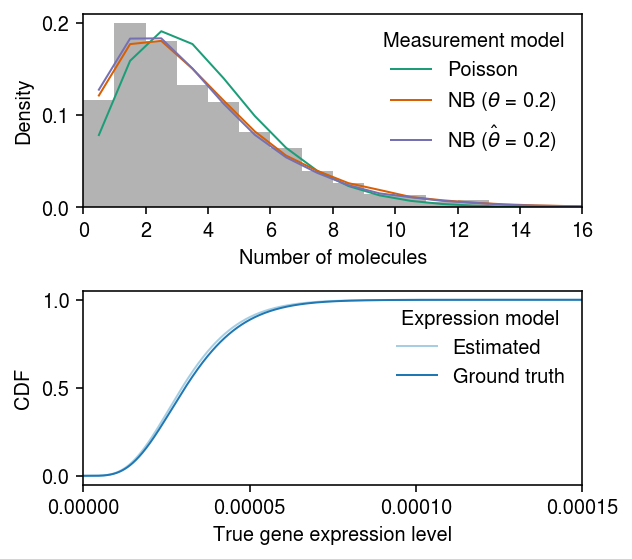
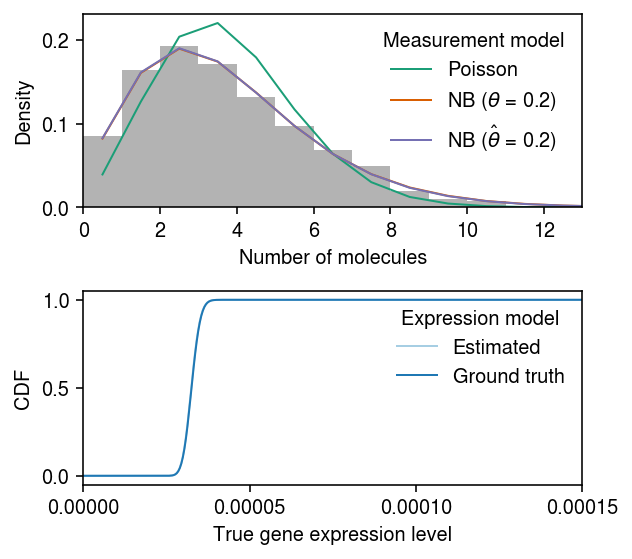
Debug EBNBM

diff --git a/docs/ebnbm.html b/docs/ebnbm.html
@@ -1,7 +1,7 @@
 <!DOCTYPE html>
 <html lang="en">
 <head>
-<!-- 2020-09-01 Tue 15:44 -->
+<!-- 2020-09-01 Tue 16:49 -->
 <meta charset="utf-8">
 <meta name="viewport" content="width=device-width, initial-scale=1">
 <title>Negative binomial measurement model</title>
@@ -471,7 +471,7 @@ ground truth values.
 </p>
 
 <div class="org-src-container">
-<pre class="src src-ipython"><span class="org-variable-name">x</span>, <span class="org-variable-name">s</span>, <span class="org-variable-name">lam</span>, <span class="org-variable-name">u</span>, <span class="org-variable-name">log_mean</span>, <span class="org-variable-name">log_inv_disp</span>, <span class="org-variable-name">theta</span> = simulate_nb_gamma(n=1000, p=1, theta=0.2, seed=1)
+<pre class="src src-ipython"><span class="org-variable-name">x</span>, <span class="org-variable-name">s</span>, <span class="org-variable-name">lam</span>, <span class="org-variable-name">u</span>, <span class="org-variable-name">log_mean</span>, <span class="org-variable-name">log_inv_disp</span>, <span class="org-variable-name">theta</span> = simulate_nb_gamma(n=1000, p=5, theta=0.2, seed=1)
 <span class="org-variable-name">log_mean_hat</span>, <span class="org-variable-name">log_inv_disp_hat</span>, <span class="org-variable-name">log_theta_hat</span>, <span class="org-variable-name">alpha</span>, <span class="org-variable-name">beta</span>, <span class="org-variable-name">gamma</span>, <span class="org-variable-name">delta</span>, <span class="org-variable-name">elbo</span> = scmodes.ebnbm.ebnbm_gamma(
   x,
   s,
@@ -483,15 +483,15 @@ ground truth values.
 
 <span class="org-comment-delimiter"># </span><span class="org-comment">Poisson measurement =&gt; NB observation</span>
 <span class="org-variable-name">pmf</span> = <span class="org-builtin">dict</span>()
-<span class="org-variable-name">pmf</span>[<span class="org-string">'Poisson'</span>] = st.nbinom(n=np.exp(log_inv_disp), p=1 / (1 + (s * np.exp(log_mean - log_inv_disp)))).pmf(y).mean(axis=0)
+<span class="org-variable-name">pmf</span>[<span class="org-string">'Poisson'</span>] = st.nbinom(n=np.exp(log_inv_disp[:,0]), p=1 / (1 + (s * np.exp(log_mean[:,0] - log_inv_disp[:,0])))).pmf(y).mean(axis=0)
 
 <span class="org-comment-delimiter"># </span><span class="org-comment">NB measurement =&gt; Monte Carlo integral</span>
 <span class="org-variable-name">n_samples</span> = 1000
-<span class="org-variable-name">G</span> = st.gamma(a=np.exp(log_inv_disp), scale=np.exp(log_mean - log_inv_disp))
+<span class="org-variable-name">G</span> = st.gamma(a=np.exp(log_inv_disp[:,0]), scale=np.exp(log_mean[:,0] - log_inv_disp[:,0]))
 <span class="org-variable-name">temp</span> = G.rvs(size=(n_samples, y.shape[0], 1))
 <span class="org-variable-name">pmf</span>[rf<span class="org-string">'NB ($\theta$ = {theta:.2g})'</span>] = st.nbinom(n=1 / theta, p=1 / (1 + s[0] * temp * theta)).pmf(y.reshape(-1, 1)).mean(axis=0)
 
-<span class="org-variable-name">Ghat</span> = st.gamma(a=np.exp(log_inv_disp_hat), scale=np.exp(log_mean_hat - log_inv_disp_hat))
+<span class="org-variable-name">Ghat</span> = st.gamma(a=np.exp(log_inv_disp_hat[:,0]), scale=np.exp(log_mean_hat[:,0] - log_inv_disp_hat[:,0]))
 <span class="org-variable-name">temp</span> = Ghat.rvs(size=(n_samples, y.shape[0], 1))
 <span class="org-variable-name">pmf</span>[rf<span class="org-string">'NB ($\hat\theta$ = {np.exp(log_theta_hat):.2g})'</span>] = st.nbinom(n=np.exp(-log_theta_hat), p=1 / (1 + s[0] * temp * np.exp(log_theta_hat))).pmf(y.reshape(-1, 1)).mean(axis=0)
 
@@ -569,13 +569,198 @@ fig.tight_layout()
 <p><img src="figure/ebnbm.org/sim-ex2.png" alt="sim-ex2.png">
 </p>
 </div>
+
+<p>
+Now, fit the model initialized at the ground truth.
+</p>
+
+<div class="org-src-container">
+<pre class="src src-ipython"><span class="org-variable-name">log_mean_hat</span>, <span class="org-variable-name">log_inv_disp_hat</span>, <span class="org-variable-name">log_theta_hat</span>, <span class="org-variable-name">alpha</span>, <span class="org-variable-name">beta</span>, <span class="org-variable-name">gamma</span>, <span class="org-variable-name">delta</span>, <span class="org-variable-name">elbo</span> = scmodes.ebnbm.ebnbm_gamma(
+  x,
+  s,
+  init=np.hstack([np.exp(log_inv_disp).ravel(), np.exp(-log_mean + log_inv_disp).ravel(), theta]),
+  tol=1e-3, 
+  fix_theta=<span class="org-constant">False</span>)
+
+<span class="org-variable-name">y</span> = np.arange(x[:,0].<span class="org-builtin">max</span>() + 1)
+
+<span class="org-comment-delimiter"># </span><span class="org-comment">Poisson measurement =&gt; NB observation</span>
+<span class="org-variable-name">pmf</span> = <span class="org-builtin">dict</span>()
+<span class="org-variable-name">pmf</span>[<span class="org-string">'Poisson'</span>] = st.nbinom(n=np.exp(log_inv_disp[:,0]), p=1 / (1 + (s * np.exp(log_mean[:,0] - log_inv_disp[:,0])))).pmf(y).mean(axis=0)
+
+<span class="org-comment-delimiter"># </span><span class="org-comment">NB measurement =&gt; Monte Carlo integral</span>
+<span class="org-variable-name">n_samples</span> = 1000
+<span class="org-variable-name">G</span> = st.gamma(a=np.exp(log_inv_disp[:,0]), scale=np.exp(log_mean[:,0] - log_inv_disp[:,0]))
+<span class="org-variable-name">temp</span> = G.rvs(size=(n_samples, y.shape[0], 1))
+<span class="org-variable-name">pmf</span>[rf<span class="org-string">'NB ($\theta$ = {theta:.2g})'</span>] = st.nbinom(n=1 / theta, p=1 / (1 + s[0] * temp * theta)).pmf(y.reshape(-1, 1)).mean(axis=0)
+
+<span class="org-variable-name">Ghat</span> = st.gamma(a=np.exp(log_inv_disp_hat[:,0]), scale=np.exp(log_mean_hat[:,0] - log_inv_disp_hat[:,0]))
+<span class="org-variable-name">temp</span> = Ghat.rvs(size=(n_samples, y.shape[0], 1))
+<span class="org-variable-name">pmf</span>[rf<span class="org-string">'NB ($\hat\theta$ = {np.exp(log_theta_hat):.2g})'</span>] = st.nbinom(n=np.exp(-log_theta_hat), p=1 / (1 + s[0] * temp * np.exp(log_theta_hat))).pmf(y.reshape(-1, 1)).mean(axis=0)
+
+<span class="org-variable-name">cdf</span> = <span class="org-builtin">dict</span>()
+<span class="org-variable-name">grid</span> = np.linspace(0, (x / s).<span class="org-builtin">max</span>(), 1000)
+<span class="org-variable-name">cdf</span>[<span class="org-string">'Estimated'</span>] = Ghat.cdf(grid).ravel()
+<span class="org-variable-name">cdf</span>[<span class="org-string">'Ground truth'</span>] = G.cdf(grid).ravel()
+</pre>
+</div>
+
+<p>
+Plot the fitted models against the observed data.
+</p>
+
+<div class="org-src-container">
+<pre class="src src-ipython"><span class="org-variable-name">cm</span> = plt.get_cmap(<span class="org-string">'Dark2'</span>)
+plt.clf()
+<span class="org-variable-name">fig</span>, <span class="org-variable-name">ax</span> = plt.subplots(2, 1)
+fig.set_size_inches(4.5, 4)
+
+ax[0].hist(x[:,0], bins=y, color=<span class="org-string">'0.7'</span>, density=<span class="org-constant">True</span>)
+<span class="org-keyword">for</span> i, k <span class="org-keyword">in</span> <span class="org-builtin">enumerate</span>(pmf):
+  ax[0].plot(y + .5, pmf[k], c=cm(i), lw=1, label=k)
+ax[0].legend(title=<span class="org-string">'Measurement model'</span>, frameon=<span class="org-constant">False</span>)
+ax[0].set_xlim(0, x[:,0].<span class="org-builtin">max</span>())
+ax[0].set_xlabel(<span class="org-string">'Number of molecules'</span>)
+ax[0].set_ylabel(<span class="org-string">'Density'</span>)
+
+<span class="org-variable-name">cm</span> = plt.get_cmap(<span class="org-string">'Paired'</span>)
+<span class="org-keyword">for</span> i, k <span class="org-keyword">in</span> <span class="org-builtin">enumerate</span>(cdf):
+  ax[1].plot(grid, cdf[k], c=cm(i), lw=1, label=k)
+ax[1].legend(title=<span class="org-string">'Expression model'</span>, frameon=<span class="org-constant">False</span>)
+ax[1].set_xlim(0, 1.5e-4)
+ax[1].set_xticks([0, 5e-5, 1e-4, 1.5e-4])
+ax[1].set_xlabel(<span class="org-string">'True gene expression level'</span>)
+ax[1].set_ylabel(<span class="org-string">'CDF'</span>)
+
+fig.tight_layout()
+</pre>
+</div>
+
+
+<div class="figure">
+<p><img src="figure/ebnbm.org/sim-ex3.png" alt="sim-ex3.png">
+</p>
+</div>
+
+<div class="org-src-container">
+<pre class="src src-ipython"><span class="org-variable-name">y</span> = np.arange(x[:,1].<span class="org-builtin">max</span>() + 1)
+
+<span class="org-comment-delimiter"># </span><span class="org-comment">Poisson measurement =&gt; NB observation</span>
+<span class="org-variable-name">pmf</span> = <span class="org-builtin">dict</span>()
+<span class="org-variable-name">pmf</span>[<span class="org-string">'Poisson'</span>] = st.nbinom(n=np.exp(log_inv_disp[:,1]), p=1 / (1 + (s * np.exp(log_mean[:,1] - log_inv_disp[:,1])))).pmf(y).mean(axis=0)
+
+<span class="org-comment-delimiter"># </span><span class="org-comment">NB measurement =&gt; Monte Carlo integral</span>
+<span class="org-variable-name">n_samples</span> = 1000
+<span class="org-variable-name">G</span> = st.gamma(a=np.exp(log_inv_disp[:,1]), scale=np.exp(log_mean[:,1] - log_inv_disp[:,1]))
+<span class="org-variable-name">temp</span> = G.rvs(size=(n_samples, y.shape[0], 1))
+<span class="org-variable-name">pmf</span>[rf<span class="org-string">'NB ($\theta$ = {theta:.2g})'</span>] = st.nbinom(n=1 / theta, p=1 / (1 + s[0] * temp * theta)).pmf(y.reshape(-1, 1)).mean(axis=0)
+
+<span class="org-variable-name">Ghat</span> = st.gamma(a=np.exp(log_inv_disp_hat[:,1]), scale=np.exp(log_mean_hat[:,1] - log_inv_disp_hat[:,1]))
+<span class="org-variable-name">temp</span> = Ghat.rvs(size=(n_samples, y.shape[0], 1))
+<span class="org-variable-name">pmf</span>[rf<span class="org-string">'NB ($\hat\theta$ = {np.exp(log_theta_hat):.2g})'</span>] = st.nbinom(n=np.exp(-log_theta_hat), p=1 / (1 + s[0] * temp * np.exp(log_theta_hat))).pmf(y.reshape(-1, 1)).mean(axis=0)
+
+<span class="org-variable-name">cdf</span> = <span class="org-builtin">dict</span>()
+<span class="org-variable-name">grid</span> = np.linspace(0, (x / s).<span class="org-builtin">max</span>(), 1000)
+<span class="org-variable-name">cdf</span>[<span class="org-string">'Estimated'</span>] = Ghat.cdf(grid).ravel()
+<span class="org-variable-name">cdf</span>[<span class="org-string">'Ground truth'</span>] = G.cdf(grid).ravel()
+
+<span class="org-variable-name">cm</span> = plt.get_cmap(<span class="org-string">'Dark2'</span>)
+plt.clf()
+<span class="org-variable-name">fig</span>, <span class="org-variable-name">ax</span> = plt.subplots(2, 1)
+fig.set_size_inches(4.5, 4)
+
+ax[0].hist(x[:,1], bins=y, color=<span class="org-string">'0.7'</span>, density=<span class="org-constant">True</span>)
+<span class="org-keyword">for</span> i, k <span class="org-keyword">in</span> <span class="org-builtin">enumerate</span>(pmf):
+  ax[0].plot(y + .5, pmf[k], c=cm(i), lw=1, label=k)
+ax[0].legend(title=<span class="org-string">'Measurement model'</span>, frameon=<span class="org-constant">False</span>)
+ax[0].set_xlim(0, y.<span class="org-builtin">max</span>())
+ax[0].set_xlabel(<span class="org-string">'Number of molecules'</span>)
+ax[0].set_ylabel(<span class="org-string">'Density'</span>)
+
+<span class="org-variable-name">cm</span> = plt.get_cmap(<span class="org-string">'Paired'</span>)
+<span class="org-keyword">for</span> i, k <span class="org-keyword">in</span> <span class="org-builtin">enumerate</span>(cdf):
+  ax[1].plot(grid, cdf[k], c=cm(i), lw=1, label=k)
+ax[1].legend(title=<span class="org-string">'Expression model'</span>, frameon=<span class="org-constant">False</span>)
+ax[1].set_xlabel(<span class="org-string">'True gene expression level'</span>)
+ax[1].set_ylabel(<span class="org-string">'CDF'</span>)
+
+fig.tight_layout()
+</pre>
+</div>
+
+
+<div class="figure">
+<p><img src="figure/ebnbm.org/sim-ex3-2.png" alt="sim-ex3-2.png">
+</p>
+</div>
+
+<p>
+Compare the true posterior against the variational approximation.
+</p>
+
+<div class="org-src-container">
+<pre class="src src-ipython">plt.clf()
+<span class="org-variable-name">fig</span>, <span class="org-variable-name">ax</span> = plt.subplots(1, 2)
+fig.set_size_inches(5, 2.5)
+<span class="org-keyword">for</span> a <span class="org-keyword">in</span> ax:
+  a.set_aspect(<span class="org-string">'equal'</span>, adjustable=<span class="org-string">'datalim'</span>)
+
+ax[0].set_xscale(<span class="org-string">'log'</span>)
+ax[0].set_yscale(<span class="org-string">'log'</span>)
+ax[0].scatter(((x + np.exp(log_inv_disp)) / (s * u + np.exp(log_inv_disp - log_mean))).ravel(), (alpha / beta).ravel(), s=1, c=<span class="org-string">'k'</span>, alpha=0.1)
+ax[0].set_xlabel(r<span class="org-string">'$\mathrm{E}[\lambda \mid x, u]$'</span>)
+ax[0].set_ylabel(r<span class="org-string">'$\mathrm{E}_q[\lambda]$'</span>)
+
+ax[1].scatter(((x + theta) / (s * lam + theta)), (gamma / delta).ravel(), s=1, c=<span class="org-string">'k'</span>, alpha=0.1)
+ax[1].set_xlabel(r<span class="org-string">'$\mathrm{E}[u \mid x, \mu]$'</span>)
+ax[1].set_ylabel(r<span class="org-string">'$\mathrm{E}_q[u]$'</span>)
+
+fig.tight_layout()
+</pre>
+</div>
+
+
+<div class="figure">
+<p><img src="figure/ebnbm.org/sim-ex4.png" alt="sim-ex4.png">
+</p>
+</div>
+
+<p>
+Compare the estimated expression models against the ground truth.
+</p>
+
+<div class="org-src-container">
+<pre class="src src-ipython">plt.clf()
+<span class="org-variable-name">fig</span>, <span class="org-variable-name">ax</span> = plt.subplots(1, 2)
+fig.set_size_inches(5, 2.5)
+<span class="org-keyword">for</span> a <span class="org-keyword">in</span> ax:
+  a.set_aspect(<span class="org-string">'equal'</span>, <span class="org-string">'datalim'</span>)
+ax[0].scatter(log_mean, log_mean_hat, s=4, c=<span class="org-string">'k'</span>)
+<span class="org-variable-name">lim</span> = ax[0].get_xlim()
+ax[0].plot(lim, lim, lw=1, ls=<span class="org-string">':'</span>, c=<span class="org-string">'r'</span>)
+ax[0].set_xlabel(<span class="org-string">'$\ln(\mu)$'</span>)
+ax[0].set_ylabel(<span class="org-string">'$\ln(\hat\mu)$'</span>)
+ax[1].scatter(log_inv_disp, log_inv_disp_hat, s=4, c=<span class="org-string">'k'</span>)
+<span class="org-variable-name">lim</span> = ax[1].get_xlim()
+ax[1].plot(lim, lim, lw=1, ls=<span class="org-string">':'</span>, c=<span class="org-string">'r'</span>)
+ax[1].set_xlabel(<span class="org-string">'$\ln(\phi)$'</span>)
+ax[1].set_ylabel(<span class="org-string">'$\ln(\hat\phi)$'</span>)
+fig.tight_layout()
+</pre>
+</div>
+
+
+<div class="figure">
+<p><img src="figure/ebnbm.org/sim-ex5.png" alt="sim-ex5.png">
+</p>
+</div>
 </div>
 </div>
 </div>
 </div>
 <div id="postamble" class="status">
 <p class="author">Author: Abhishek Sarkar</p>
-<p class="date">Created: 2020-09-01 Tue 15:44</p>
+<p class="date">Created: 2020-09-01 Tue 16:49</p>
 <p class="validation"><a href="http://validator.w3.org/check?uri=referer">Validate</a></p>
 </div>
 </body>
